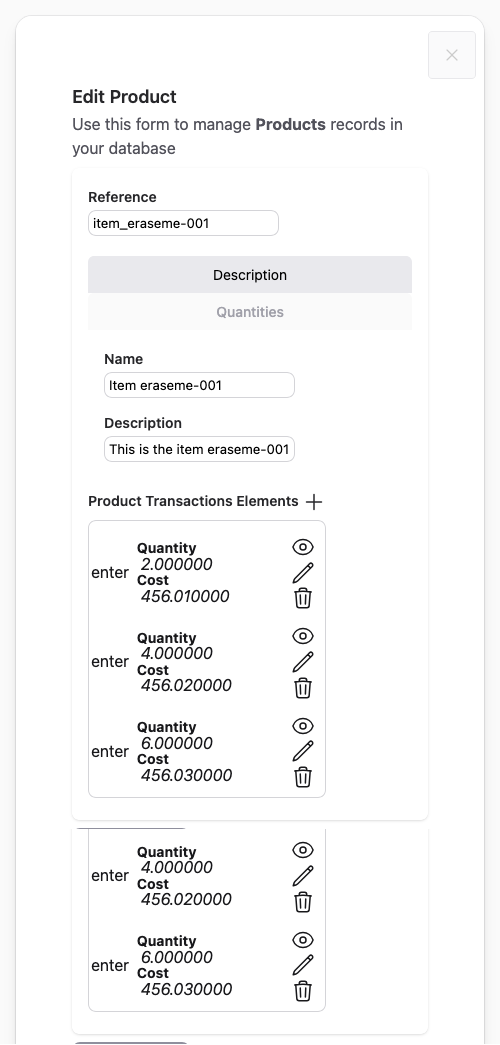
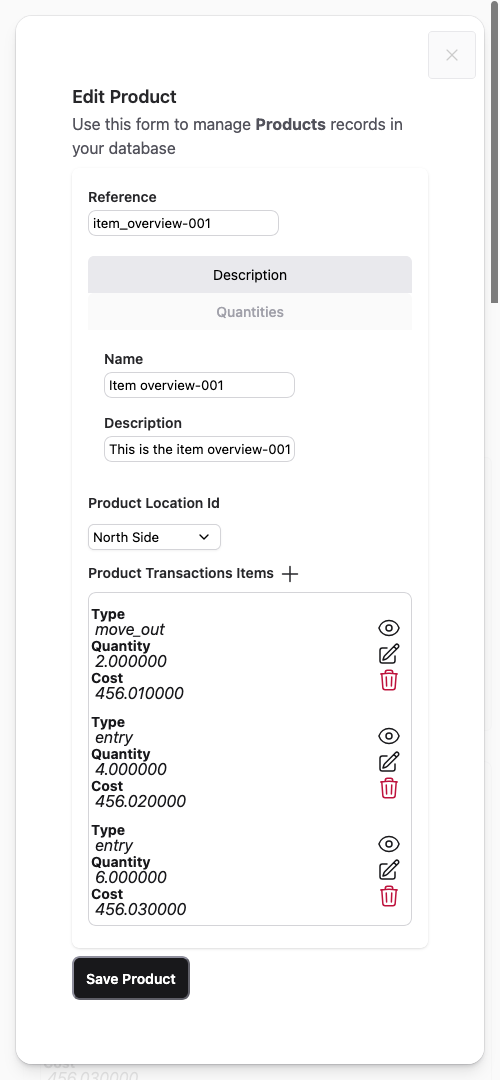
merge: update documentation (#159)
* docs: update overview and its related images

* docs: update CONTRIBUTING.md to include screenshots usage

* docs: start update of getting_started.md

* style: normalize view, modals and icon styles

---------

diff --git a/guides/introduction/getting_started.md b/guides/introduction/getting_started.md
@@ -20,53 +20,58 @@ Fetch dependencies:
 mix deps.get
 ```
 
-## Tailwind Configuration
+## CSS Configuration
 
-### Versions 4.x
-After following the [installation](https://tailwindcss.com/docs/installation/framework-guides/phoenix) guide for phoenix, 
-open assets/css/app.css and look for the following lines.
+Aurora UIX can render UI using custom templates and/or custom themes.
+So, we decided to used our own set of css rules.
 
-```css
-@import "tailwindcss" source(none);
-@source "../css";
-@source "../js";
-@source "../../lib/your_app_web";
-...
+A `basic` template along with the `light` and `dark` themes are included as default 
+in the package distribution.
+
+Css stylesheet resolution needs some configuration for it to work.
+
+### Configure Stylesheet Service
+Add auix's stylesheet path to a :api pipeline in the `router.ex` module.
+Here is a code snippet example for setting the path route.
+
+```elixir
+  pipeline :api do
+    plug(:accepts, ["json"])
+  end
+
+  scope "/auix/assets/", Aurora.Uix do
+    pipe_through(:api)
+    get("/css/stylesheet.css", Templates.CssServer, :generate)
+  end
 ```
 
-Add this source reference after yours app reference.
-```css
-@source "../../deps/aurora_uix/lib";
-```
+[!NOTE] You can set another path for the stylesheet, 
+if you do so, reflect that change in the corresponding `link` tag declaration that
+must be included in the main layout (usually root.html.heex or app.html.heex).
 
-You should have something like the following:
-```css
-@import "tailwindcss" source(none);
-@source "../css";
-@source "../js";
-@source "../../lib/your_app_web";
-@source "../../deps/aurora_uix/lib";
-```
-
-Now you can build your tailwind classes.
-
-### Versions 3.x
-Add Aurora UIX to your `tailwind.config.js` content paths to ensure all styles are included ('aurora_demo' used as an application example):
-
-```js
-module.exports = {
-  content: [
-    "./js/**/*.js",
-    "../lib/aurora_demo_web.ex",
-    "../lib/aurora_demo_web/**/*.*ex",
-    "../deps/aurora_uix/**/*.ex"
-  ],
-  theme: {
-    extend: {},
-  },
-  plugins: [],
-}
-```
+### Include Stylesheet in Main Layout
+In your main layout (root.html.heex, app.html.heex) add a link to `/auix/assets/css/stylesheet.css`.
+The head might look like the following:
+```html
+  <head>
+    <meta charset="utf-8" />
+    <meta name="viewport" content="width=device-width, initial-scale=1" />
+    <meta name="csrf-token" content={get_csrf_token()} />
+    <.live_title default="Aurora.Uix" suffix=" · Phoenix Framework">
+      {assigns[:page_title]}
+    </.live_title>
+    <link phx-track-static rel="stylesheet" href={~p"/assets/css/app.css"} />
+    <!-- Add this vvvvvvvvv line -->
+    <link rel="stylesheet" href={"/auix/assets/css/stylesheet.css"} />
+    <!-- ^^^^^^^^^^^^^^^^^^^ -->
+    <script defer phx-track-static type="text/javascript" src={~p"/assets/js/app.js"}>
+    <!-- .... other tags .... -->
+  </head>
+  ```
+> [!NOTE] Stylesheet loaded thru url are bound to be cached by browsers, if you experience that changes to rules does not apply upon reloading, replace the header link tag with the following:
+> ```html
+> <link rel="stylesheet" href={"/auix/assets/css/stylesheet.css?gen=#{System.os_time()}"} />
+> ```
 
 ## Basic Usage
 
@@ -107,16 +112,27 @@ end
 Add the generated LiveView modules to your router:
 
 ```elixir
-live "/products", MyAppWeb.ProductViews.Product.Index
-live "/products/new", MyAppWeb.ProductViews.Product.Index, :new
-live "/products/:id/edit", MyAppWeb.ProductViews.Product.Index, :edit
-
-live "/products/:id", MyAppWeb.ProductViews.Product.Show, :show
-live "/products/:id/show/edit", MyAppWeb.ProductViews.Product.Show, :edit
-
+scope "/inventory", Aurora.UixWeb.Guides do
+  pipe_through(:browser)
+  live "/products", Overview.Product.Index
+  live "/products/new", Overview.Product.Index, :new
+  live "/products/:id/edit", Overview.Product.Index, :edit
+  live "/products/:id", Overview.Product.Show, :show
+  live "/products/:id/show/edit", Overview.Product.Show, :edit
+end
 ```
 
-> **Note:** You can simplify route registration by using the `Aurora.Uix.RouteHelper` macro. It automatically generates these routes for you.
+[!NOTE] You can simplify route registration by using the `Aurora.Uix.RouteHelper` macro. 
+It automatically generates these routes for you.
+
+```elixir
+import Aurora.Uix.RouteHelper
+
+scope "/inventory", Aurora.UixWeb.Guides do
+  pipe_through(:browser)
+  auix_live_resources("/products", Overview.Product)
+end
+```
 
 
 4. **Run Your App**

diff --git a/guides/overview/overview.md b/guides/overview/overview.md
@@ -58,7 +58,7 @@ defmodule Aurora.UixWeb.Guides.Overview do
 
     show_layout :product do
       stacked do
-        inline([:reference, :name, :description])
+        inline([:reference, :name])
         inline([:description])
         inline([:product_location, :product_transactions])
       end
@@ -78,34 +78,48 @@ defmodule Aurora.UixWeb.Guides.Overview do
           end
         end
 
-        inline([:product_transactions])
+        stacked do
+          inline([:product_location_id])
+          inline([:product_transactions])
+        end
       end
     end
   end
 end
 ```
 
-Will produce the whole UI interface for **C**reating, **R**eading (showing), **U**pdating (editing) and **D**eleting along with validation, association handling. The following images shows part of the automatically generated UI:
+Will produce the whole UI interface for **C**reating, **R**eading (showing), **U**pdating (editing) 
+and **D**eleting along with validation, association handling, among other features and functionalities.
+Each schema gets its own set of interfaces.
+The following images depicts some of the automatically generated UI:
 
 #### Index listing
-<img src="images/index.png" width="600"/>
+<img src="images/index-desktop.png" width="600"/>
 
 #### Record showing
-<img src="images/show.png" width="600"/>
+<img src="images/show-desktop.png" width="600"/>
 
 #### Record editing
-<img src="images/edit.png" width="600"/>
+<img src="images/edit-desktop.png" width="600"/>
+
+- **Section Switching**
+
+<img src="images/edit-desktop-section_switching.png" width="600"/>
 
 Views are responsive, in a mobile you'll have this:
 
 #### Index listing
-<img src="images/index-mobile.png" width="600"/>
+<img src="images/index-mobile.png" width="300"/>
 
 #### Record showing
-<img src="images/show-mobile.png" width="600"/>
+<img src="images/show-mobile.png" width="300"/>
 
 #### Record editing
-<img src="images/edit-mobile.png" width="600"/>
+<img src="images/edit-mobile.png" width="300"/>
+
+- **Section Switching**
+
+<img src="images/edit-mobile-section_switching.png" width="300"/>
 
 
 ## When to Use Aurora UIX
@@ -117,7 +131,8 @@ Views are responsive, in a mobile you'll have this:
 ## Extending Aurora UIX
 
 - Implement custom templates or override rendering logic
-- Add custom field renderers or extend the layout DSL
+- Author custom field renderers or extend the layout DSL
 - Integrate with your own Phoenix components and styles
 
-See the guides and documentation for more details on configuration, customization, and advanced usage.
+See the guides and documentation for more details on configuration, 
+customization, and advanced usage.

diff --git a/CONTRIBUTING.md b/CONTRIBUTING.md
@@ -245,13 +245,16 @@ If you enter the iex as explained in the section [`Starting the Phoenix Server i
 
 ```bash
 ## Create 100 sample products with 3 transactions each
-Aurora.Uix.Test.Helper.create_sample_products_with_transactions(100, 3, :use_any_prefix)
+iex> Aurora.Uix.Test.Helper.create_sample_products_with_transactions(100, 3, :use_any_prefix)
+
+## Create 5 product locations
+iex> Aurora.Uix.Test.Helper.create_sample_product_locations(5, :eraseme)
 
 ## Create 1 sample user with a couple of email
-Aurora.Uix.Test.Helper.create_sample_users(1, %{emails: [%{email: "one@test.com", name: "work"}, %{email: "home@yahoo.com", name: "home"}]})
+iex> Aurora.Uix.Test.Helper.create_sample_users(1, %{emails: [%{email: "one@test.com", name: "work"}, %{email: "home@yahoo.com", name: "home"}]})
 
 ## Delete all sample data (inventory and accounts) 
-Aurora.Uix.Test.Helper.delete_all_sample_data()
+iex> Aurora.Uix.Test.Helper.delete_all_sample_data()
 
 ```
 
@@ -287,7 +290,7 @@ After launching Phoenix Server, you can try in a Mac:
 
 You can capture the image with the tool of your preference, in the MacOS there is the included `Screenshot` application.
 
-The included screenshots were captured using the Firefox add-ons [`Awesome Screenshot & Screen Recorder`](https://addons.mozilla.org/en-US/firefox/addon/screenshot-capture-annotate/?utm_source=addons.mozilla.org&utm_medium=referral&utm_content=search).
+The included screenshots were captured using the Firefox add-ons [`Full Page Screen Capture — FireShot`](http://getfireshot.com/)
 
 
 ## Code of Conduct
